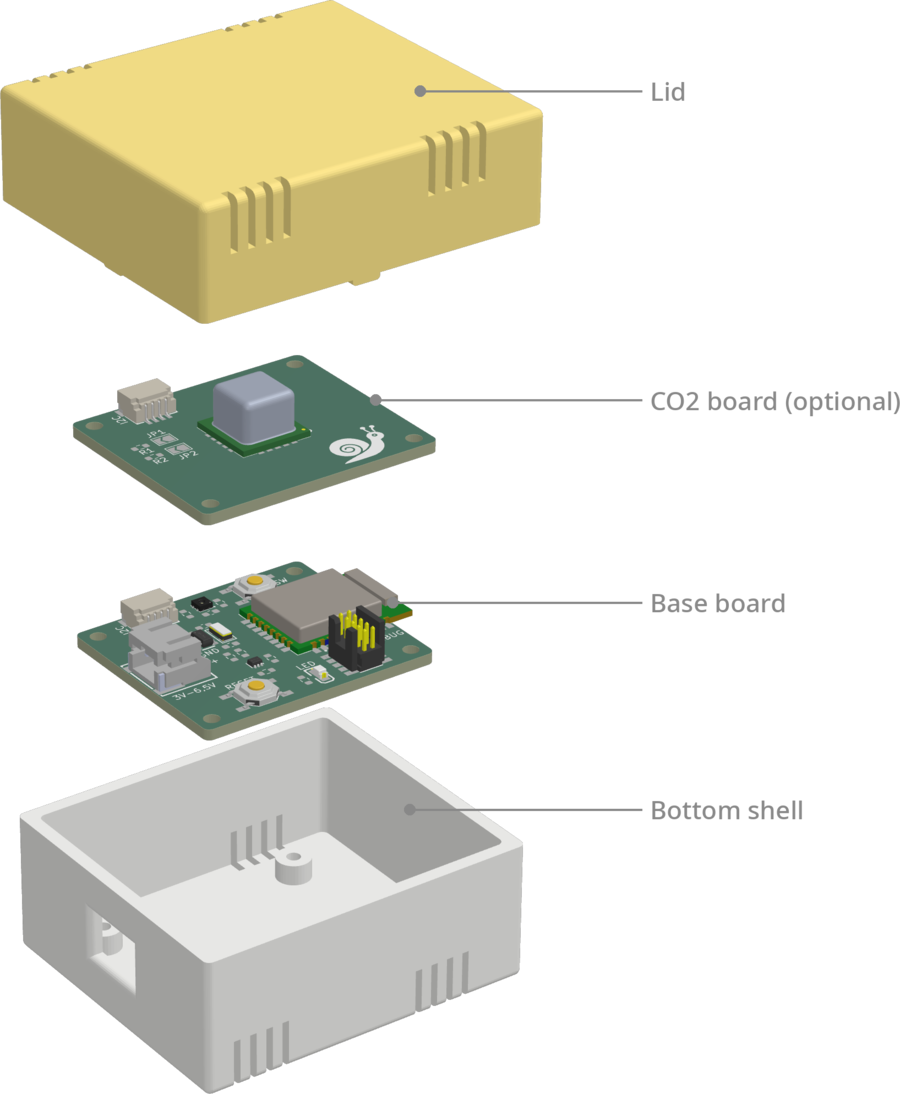
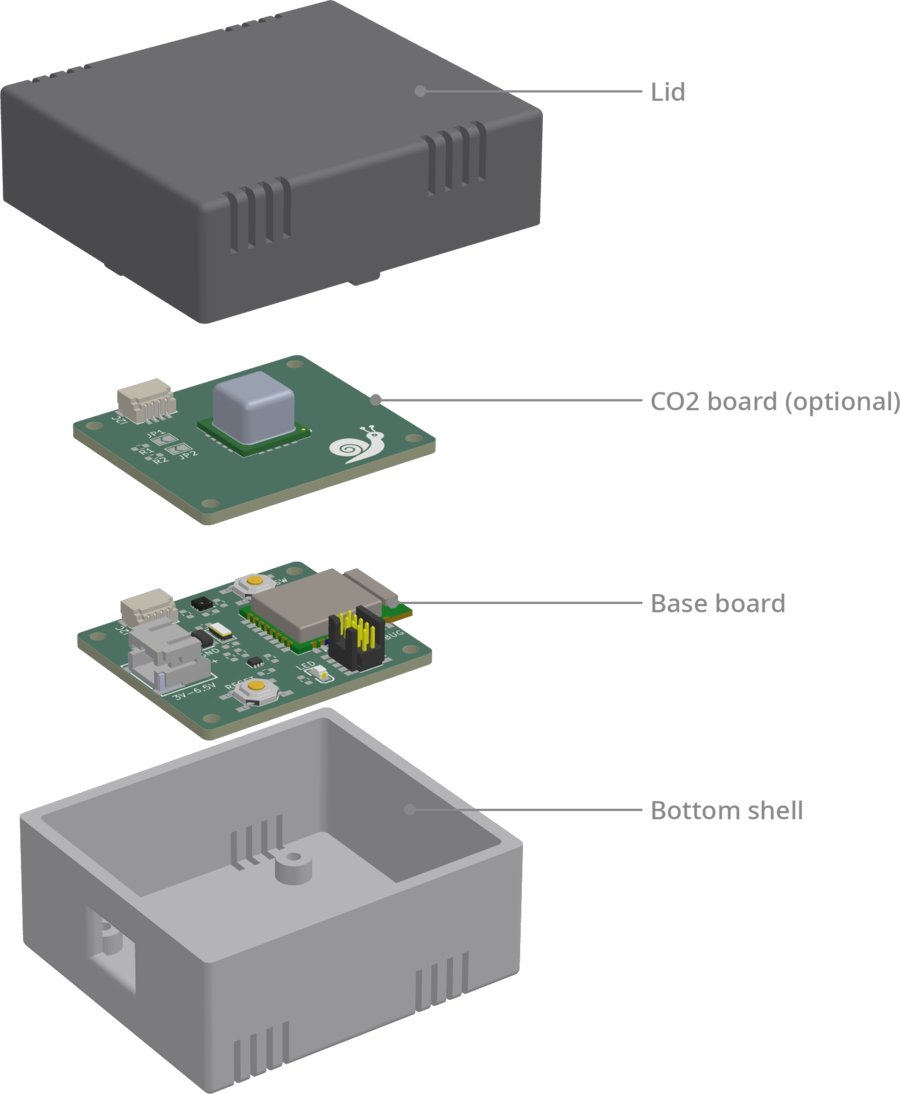
Render the case in black and grey

Changed region(s): [[0.0, 0.6216, 0.5911, 1.0], [0.0, 0.0, 0.6222, 0.3108]]

diff --git a/scripts/render_images.py b/scripts/render_images.py
@@ -39,8 +39,8 @@ CASE_BOTTOM = ROOT / 'hardware/case/bottom.stl'
 # the board spanning z 0..30 from the grid origin.
 STANDOFF_Y = 5.0
 BOARD_Z_SHIFT = -30.0
-LID_COLOR = [0.96, 0.78, 0.25]
-SHELL_COLOR = [0.88, 0.88, 0.86]
+LID_COLOR = [0.16, 0.16, 0.17]
+SHELL_COLOR = [0.50, 0.50, 0.52]
 LABEL_GREY = (136, 136, 136, 255)
 FONT_CANDIDATES = [
     '/usr/share/fonts/noto/NotoSans-Medium.ttf',
